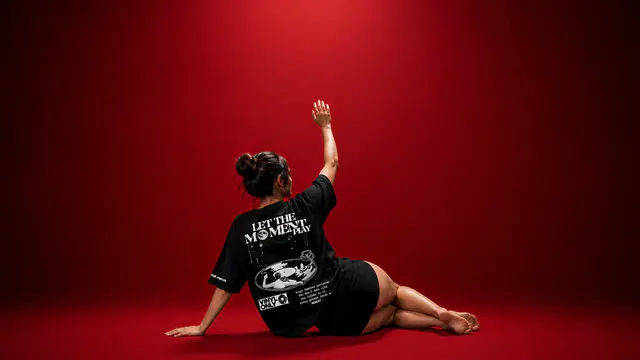
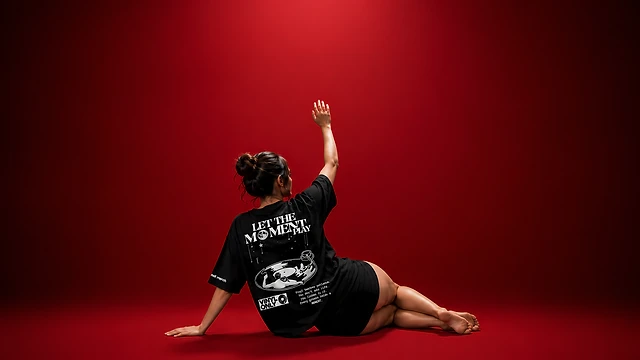
improve responsive hero framing and quality

diff --git a/src/sections/Hero.tsx b/src/sections/Hero.tsx
@@ -10,6 +10,7 @@ const HERO_IMAGES = [
   '/images/slow_down_model.webp',
   '/images/seedhe%20pahad%20se%20model.webp'
 ] as const;
+const FIRST_HERO_MOBILE_SRCSET = '/images/cdn/hero-black-tshirt-mobile-640.webp 640w, /images/cdn/hero-black-tshirt-mobile-960.webp 960w, /images/cdn/hero-black-tshirt-mobile-1440.webp 1440w';
 const HERO_ALT: Record<(typeof HERO_IMAGES)[number], string> = {
   '/images/black_tshirt_laptop_hero_compact.webp': 'Model wearing the Slugsera Let The Moment Play oversized graphic T-shirt',
   '/images/turtlemodelimage.webp': 'Model styling the Slugsera Savage Tortoise oversized T-shirt',
@@ -23,7 +24,7 @@ const HERO_RESPONSIVE: Record<(typeof HERO_IMAGES)[number], string> = {
   '/images/seedhe%20pahad%20se%20model.webp': 'hero-pahad',
 };
 const HERO_DIMENSIONS: Record<(typeof HERO_IMAGES)[number], { width: number; height: number }> = {
-  '/images/black_tshirt_laptop_hero_compact.webp': { width: 1536, height: 1024 },
+  '/images/black_tshirt_laptop_hero_compact.webp': { width: 2400, height: 1600 },
   '/images/turtlemodelimage.webp': { width: 2000, height: 1116 },
   '/images/slow_down_model.webp': { width: 2000, height: 1116 },
   '/images/seedhe%20pahad%20se%20model.webp': { width: 2000, height: 848 },
@@ -170,6 +171,9 @@ export default function Hero() {
             transition={{ duration: 0.65, ease: 'easeInOut' }}
           >
             {mobileHeroImage && <source media="(max-width: 767px)" srcSet={mobileHeroImage} />}
+            {!hasCustomHero && currentImage === HERO_IMAGES[0] && (
+              <source media="(max-width: 767px)" srcSet={FIRST_HERO_MOBILE_SRCSET} sizes="100vw" />
+            )}
             {desktopHeroImage && <source media="(min-width: 768px)" srcSet={desktopHeroImage} />}
             <img
               src={desktopHeroImage || mobileHeroImage || currentImage}
@@ -178,7 +182,13 @@ export default function Hero() {
               alt={hasCustomHero ? 'Slugsera seasonal hero cover' : HERO_ALT[currentImage]}
               width={hasCustomHero ? 2000 : HERO_DIMENSIONS[currentImage].width}
               height={hasCustomHero ? 1125 : HERO_DIMENSIONS[currentImage].height}
-              className={`absolute inset-0 w-full h-full object-cover ${!hasCustomHero && (currentImage === '/images/turtlemodelimage.webp' || currentImage === '/images/seedhe%20pahad%20se%20model.webp') ? 'object-[80%_center] sm:object-center' : 'object-center'}`}
+              className={`absolute inset-0 w-full h-full object-cover ${
+                !hasCustomHero && currentImage === HERO_IMAGES[0]
+                  ? 'object-center md:object-[center_75%]'
+                  : !hasCustomHero && (currentImage === '/images/turtlemodelimage.webp' || currentImage === '/images/seedhe%20pahad%20se%20model.webp')
+                    ? 'object-[80%_center] sm:object-center'
+                    : 'object-center'
+              }`}
               decoding="async"
               fetchPriority="high"
             />
